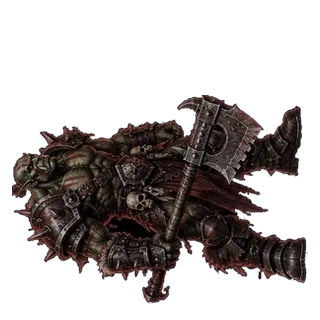
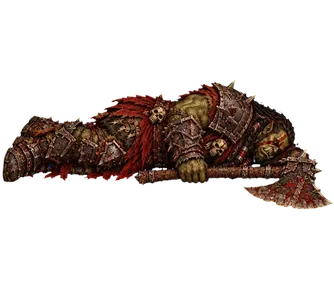
feat: animated Horde Warlord (walk, hit, death); backlog: credit estimates for remaining assets and for a new faction

diff --git a/docs/BACKLOG.md b/docs/BACKLOG.md
@@ -73,7 +73,7 @@ Lista rzeczy, które w grze działają na zastępczej grafice albo bez własnej 
 
 **Animacje jednostek (największa pozycja; potok: `docs/POTOK_ANIMACJI.md`, wpis w `src/ui/sprites.ts`)**
 Te jednostki mają ilustrację karty, portret i **statyczną figurkę** (`stoi.webp` i `martwy.webp` w `public/assets/jednostki/<folder>/`, zrobione skryptem `scripts/assets/figurki_statyczne.py`; `anim.json` ma pustą listę klipów i znacznik `"static": true`). Na arenie postać stoi i przesuwa się bez animacji, cios trafia od razu, trafienie to drgnięcie, a po śmierci leży obrócona i przyciemniona kopia figurki. **Do wygenerowania dla każdej (dźwięki `_atak` i `_smierc` wszystkich 16 jednostek są od 16.11, bez odsłuchu):** klipy `chod` (albo `wzbicie` i `lot` dla latających), `atak`, `trafienie`, `smierc`, prawdziwy `martwy.webp`, oraz dźwięki `dzwieki/jednostki/<id>_atak.mp3` i `_smierc.mp3` (po dodaniu wpisać id do `UNIT_SOUNDS` w `src/ui/sfx.ts`):
-- poziom 5, dowódcy (6; Rycerz Świtu ma już animacje i dźwięki od 16.11): `dawnKnight` Rycerz Świtu (`rycerz_switu`), `dawnHuntress` Łowczyni Gaju (`lowczyni_gaju`), `dawnSage` Mędrzec Gaju (`medrzec_gaju`), `hordeWarlord` Wódz Hordy (`wodz_hordy`), `hordeCrossbow` Kapitan Kuszników (`kapitan_kusznikow`), `hordeShadow` Szaman Cieni (`szaman_cieni`);
+- poziom 5, dowódcy (6; Rycerz Świtu ma pełne animacje od 16.11, Wódz Hordy ma chód, trafienie i śmierć, **brakuje mu ataku**; filtr treści zablokował dwa podejścia z toporem): `dawnKnight` Rycerz Świtu (`rycerz_switu`), `dawnHuntress` Łowczyni Gaju (`lowczyni_gaju`), `dawnSage` Mędrzec Gaju (`medrzec_gaju`), `hordeWarlord` Wódz Hordy (`wodz_hordy`), `hordeCrossbow` Kapitan Kuszników (`kapitan_kusznikow`), `hordeShadow` Szaman Cieni (`szaman_cieni`);
 - poziom 6, jednostki legendarne (2): `dawnPhoenix` Feniks Świtu (`feniks_switu`; dodatkowo klip `odrodzenie`), `doomBehemoth` Behemot Zagłady (`behemot_zaglady`);
 - poziom 6, jednostki alternatywne (8): `silverFox` Srebrny Lis (`srebrny_lis`), `dawnOwl` Sowa Świtu (`sowa_switu`), `dryadArcher` Driada Łuczniczka (`driada_luczniczka`), `whiteStag` Biały Jeleń (`bialy_jelen`), `goblinSlinger` Goblin Procarz (`goblin_procarz`), `gargoyle` Gargulec (`gargulec`), `caveTroll` Troll Jaskiniowy (`troll_jaskiniowy`), `shadowWyvern` Wiwerna Cienia (`wiwerna_cienia`).
 Na mapie przygody dowódcy stoją jako żetony z portretem (figurki 3D mają tylko bohaterowie główni): do decyzji, czy robić modele.
@@ -92,6 +92,30 @@ Na mapie przygody dowódcy stoją jako żetony z portretem (figurki 3D mają tyl
 - Wymiana surowców i garnizon grają dźwięk monet `coins_buy.mp3` (do zostawienia albo własny).
 
 **Dźwięki wygenerowane 15.11 bez odsłuchu** (Claude nie ma jak ich odsłuchać: autor powinien je przesłuchać i ewentualnie wymienić): `catapult.mp3`, `tower_shot.mp3`, `moat.mp3`, `shard_pickup.mp3`, `spark.mp3`, `portal.mp3`, `tavern_hire.mp3` w `public/assets/dzwieki/`.
+
+**Kredyty Scenario: ile jeszcze potrzeba (stan 16.11.2026, po wydaniu 239 CU)**
+Ceny z faktur: dźwięk (ElevenLabs SFX) 1 CU; obraz Flare `medium` 3 CU, `high` 14 CU; wideo P-Video 2 po 5 CU za sekundę (klip 3 s = 15 CU, 2 s = 10 CU); muzyka ok. 30 CU za utwór. Zablokowane lub nieudane zadania wideo **też kosztują**: 16.11 padło 6 z 14 klipów (ok. 90 CU), więc do kosztu „czystego” (ok. 72 CU na jednostkę) doliczam ok. 40% zapasu (ok. 105 CU na jednostkę).
+| Pozycja | Bez porażek | Z zapasem na porażki |
+|---|---:|---:|
+| Animacje 14 jednostek (Łowczyni, Mędrzec, Kapitan Kuszników, Szaman Cieni, Feniks, Behemot, Lis, Sowa, Driada, Jeleń, Procarz, Gargulec, Troll, Wiwerna; latające dodatkowo klip `wzbicie`, Feniks klip `odrodzenie`) | ok. 1 050 | ok. 1 470 |
+| Brakujący atak Wodza Hordy | 15 | 30 |
+| Efekty czarów, oblężenia, Odłamka, Iskry i mechanik frakcji (ok. 14 efektów po ok. 13 CU: obraz + krótki klip) i ich dźwięki | ok. 180 | ok. 250 |
+| Ikony drzewka frakcji (6), siedliska jednostek (16 ikon), frakcyjne elementy oblężenia (ok. 6 obrazów) | ok. 100 | ok. 130 |
+| Dźwięki (własny dźwięk monet, poprawki po odsłuchu autora) | ok. 20 | ok. 30 |
+| **Razem** | **ok. 1 350** | **ok. 1 900** |
+Zrobione 16.11 i nie wchodzą już do sumy: 32 dźwięki ataku i śmierci wszystkich 16 jednostek poziomów 5–6, ikona Odrodzenia, animacje Rycerza Świtu i Wodza Hordy (bez ataku). Plan Starter pozwala na 2 równoległe zadania wideo.
+
+**Kredyty Scenario: koszt jednej nowej frakcji (wszystkie grafiki i dźwięki; szacunek)**
+Frakcja to ok. 3 bohaterów i 7 jednostek (`DECYZJE.md`): 10 postaci.
+| Pozycja | Bez porażek | Z zapasem |
+|---|---:|---:|
+| 10 postaci: ilustracja karty (obraz `high` 14 CU, portret wycinany lokalnie za 0) + pełny zestaw animacji (obraz bazowy 14, trup 3, klipy chodu, ataku i śmierci 15 + 15 + 15, trafienie 10; latające +10) + dźwięki ataku i śmierci (2 CU) — ok. 88 CU na postać | ok. 880 | ok. 1 230 |
+| Dodatkowe klipy: wzbicie i lot dla postaci latających (ok. 3), skrzydła i inne efekty | ok. 60 | ok. 90 |
+| Osada: widok, budynki, siedliska 7 + drzewko (3 ikony) + garnizon i wieża maga (ok. 14 obrazów po 3–14 CU) | ok. 100 | ok. 140 |
+| Arena frakcji (plansza bitwy, 1–2 duże obrazy), kafle mapy, herb, ikona mechaniki frakcji i jej efekt | ok. 70 | ok. 100 |
+| Muzyka frakcji (2–3 utwory po ok. 30 CU) i dźwięki interfejsu frakcji | ok. 90 | ok. 100 |
+| **Razem** | **ok. 1 200** | **ok. 1 650** |
+Do tego ok. 3–4 h pracy nad pakowaniem, kontrolą i wpisami (`PRZEPIS_JEDNOSTKI.md`). Przy braku limitu jednej jednostki (100 CU) wychodzi ok. 1 000 CU samych postaci. Szacunek do aktualizacji po pierwszej nowej frakcji (Dzikie Stada), kiedy będzie znany koszt rzeczywisty.
 
 ## 3. Do sprawdzenia na żywo (autor)
 Zrobione i przetestowane, bez potwierdzenia w prawdziwej grze:

diff --git a/CHANGELOG.md b/CHANGELOG.md
@@ -6,7 +6,7 @@ Każdy wpis to jeden commit, a skrót commita stoi w nawiasie na końcu wpisu (c
 
 ## W przygotowaniu
 
-- Rycerz Świtu ma prawdziwe animacje (chód, atak, trafienie, śmierć), a zdolność Odrodzenie z Popiołów Feniksa własną ikonę.
+- Rycerz Świtu i Wódz Hordy mają prawdziwe animacje (Wódz bez ataku; chód, trafienie, śmierć), a zdolność Odrodzenie z Popiołów Feniksa własną ikonę.
 
 - Dowódcy, jednostki legendarne i alternatywne z poziomów 5–6 mają własne dźwięki ataku i śmierci (16 jednostek, 32 nagrania).
 
